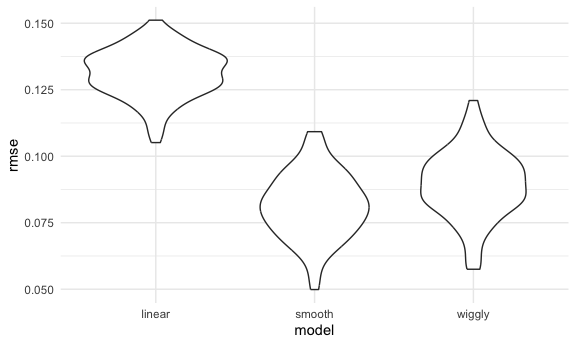
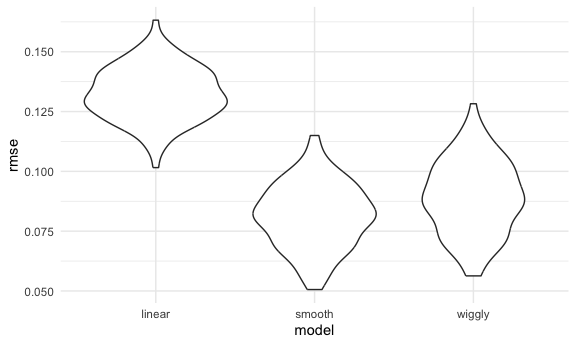
child growth example

diff --git a/02_cross_validation.md b/02_cross_validation.md
@@ -76,19 +76,19 @@ Do a model comparison
 rmse(linear_mod, test_df)
 ```
 
-    ## [1] 0.1075082
+    ## [1] 0.142209
 
 ``` r
 rmse(smooth_mod, test_df)
 ```
 
-    ## [1] 0.06622358
+    ## [1] 0.09002299
 
 ``` r
 rmse(wiggly_mod, test_df)
 ```
 
-    ## [1] 0.06254013
+    ## [1] 0.09659756
 
 ## Repeat a bunch of times
 
@@ -104,7 +104,7 @@ cv_df |> pull(train) |> nth(3) |> as_tibble()
     ## # A tibble: 176 × 2
     ##    range logratio
     ##    <dbl>    <dbl>
-    ##  1   391  -0.0601
+    ##  1   390  -0.0504
     ##  2   393  -0.0419
     ##  3   394  -0.0510
     ##  4   396  -0.0599
@@ -113,7 +113,7 @@ cv_df |> pull(train) |> nth(3) |> as_tibble()
     ##  7   402  -0.0294
     ##  8   405  -0.0476
     ##  9   406  -0.0604
-    ## 10   408  -0.0312
+    ## 10   409  -0.0382
     ## # ℹ 166 more rows
 
 ``` r
@@ -157,3 +157,88 @@ cv_df |>
 ```
 
 <img src="02_cross_validation_files/figure-gfm/unnamed-chunk-11-1.png" alt="" width="90%" />
+
+## Child growth
+
+``` r
+growth_df = read_csv("data/nepalese_children.csv") |> 
+  mutate(
+    weight_ch7 = (weight > 7) * (weight - 7)
+  )
+```
+
+    ## Rows: 2705 Columns: 5
+    ## ── Column specification ────────────────────────────────────────────────────────
+    ## Delimiter: ","
+    ## dbl (5): age, sex, weight, height, armc
+    ## 
+    ## ℹ Use `spec()` to retrieve the full column specification for this data.
+    ## ℹ Specify the column types or set `show_col_types = FALSE` to quiet this message.
+
+look at this
+
+``` r
+growth_df |> 
+  ggplot(aes(x = weight, y = armc)) + 
+  geom_point(alpha = 0.5)
+```
+
+<img src="02_cross_validation_files/figure-gfm/unnamed-chunk-13-1.png" alt="" width="90%" />
+
+``` r
+linear_fit = lm(armc ~ weight, data = growth_df)
+pwl_fit = lm(armc ~ weight + weight_ch7, data = growth_df)
+smooth_fit = gam(armc ~ s(weight), data = growth_df)
+```
+
+``` r
+growth_df |> 
+  add_predictions(pwl_fit) |> 
+  ggplot(aes(x = weight, y = armc)) +
+  geom_point(alpha = 0.5) +
+  geom_line(aes(y = pred), color = "red")
+```
+
+<img src="02_cross_validation_files/figure-gfm/unnamed-chunk-15-1.png" alt="" width="90%" />
+
+Do all the cross validation stuff we know and love
+
+``` r
+cv_df = 
+  crossv_mc(growth_df, 100) |> 
+  mutate(train = map(train, as_tibble),
+         test = map(test, as_tibble)
+  )
+```
+
+here i’m fitting models and getting rmses
+
+``` r
+cv_df = 
+  cv_df |> 
+  mutate(
+    linear_fit = map(train, \(df) lm(armc ~ weight, data = df)),
+    pwl_fit = map(train, \(df) lm(armc ~ weight + weight_ch7, data = df)),
+    smooth_fit = map(train, \(df) gam(armc ~ s(weight), data = df)),
+  ) |> 
+  mutate(
+    rmse_linear = map2_dbl(linear_fit, test, rmse),
+    rmse_pwl = map2_dbl(pwl_fit, test, rmse),
+    rmse_smooth = map2_dbl(smooth_fit, test, rmse)
+  )
+```
+
+``` r
+cv_df |> 
+  select(starts_with("rmse_")) |> 
+  pivot_longer(
+    everything(),
+    names_to = "model",
+    names_prefix = "rmse_",
+    values_to = "rmse"
+  ) |> 
+  ggplot(aes(x = model, y = rmse)) + 
+  geom_violin()
+```
+
+<img src="02_cross_validation_files/figure-gfm/unnamed-chunk-18-1.png" alt="" width="90%" />
